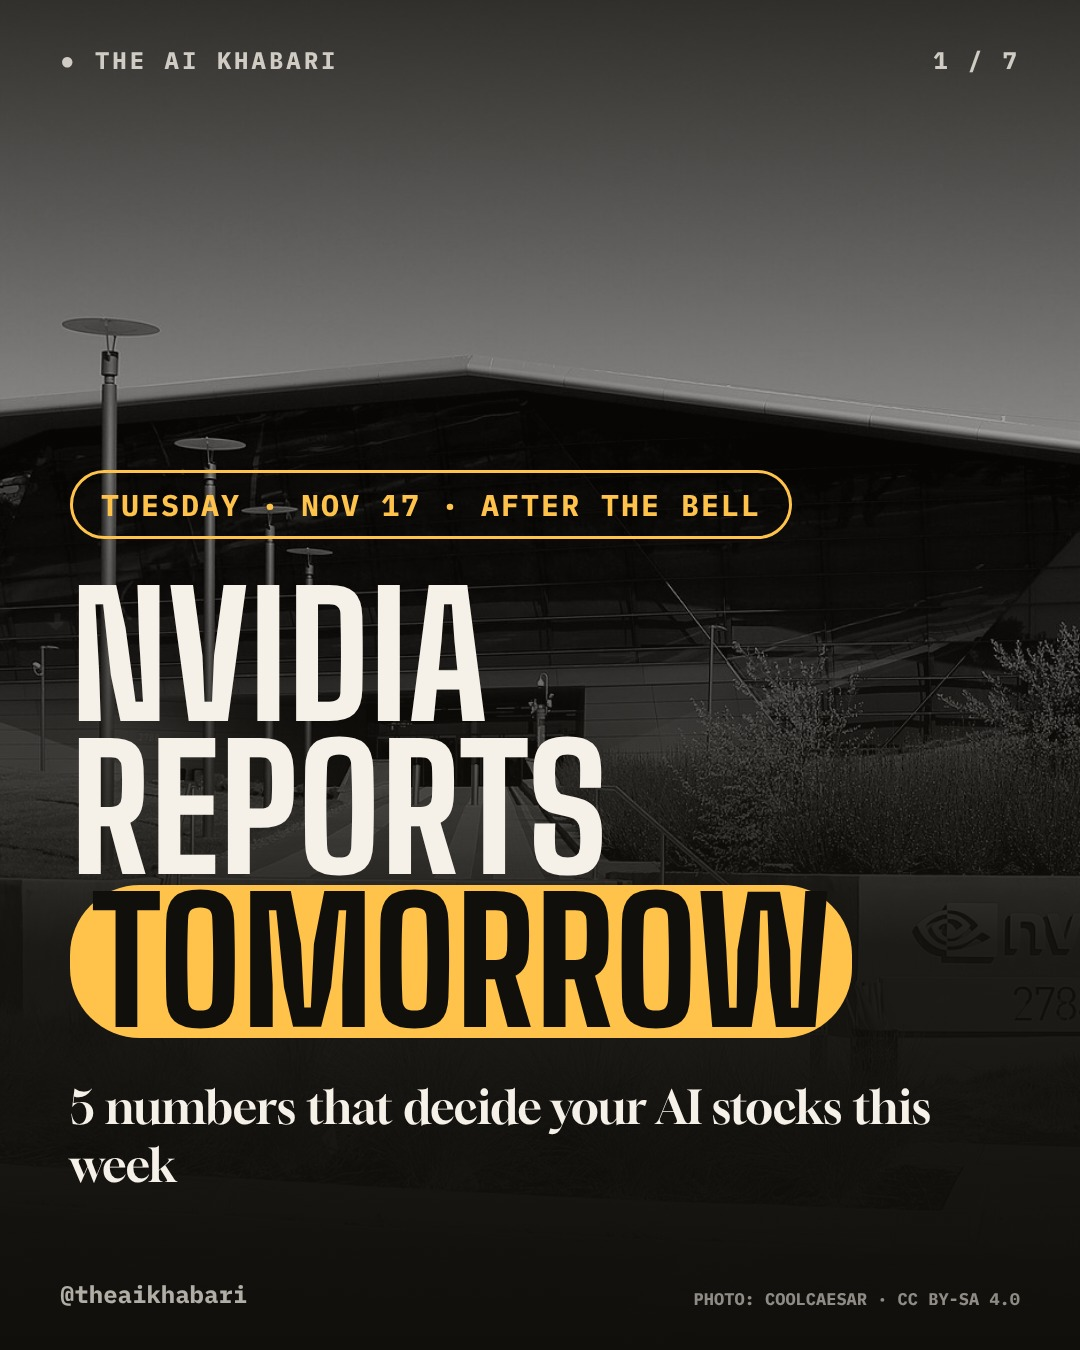
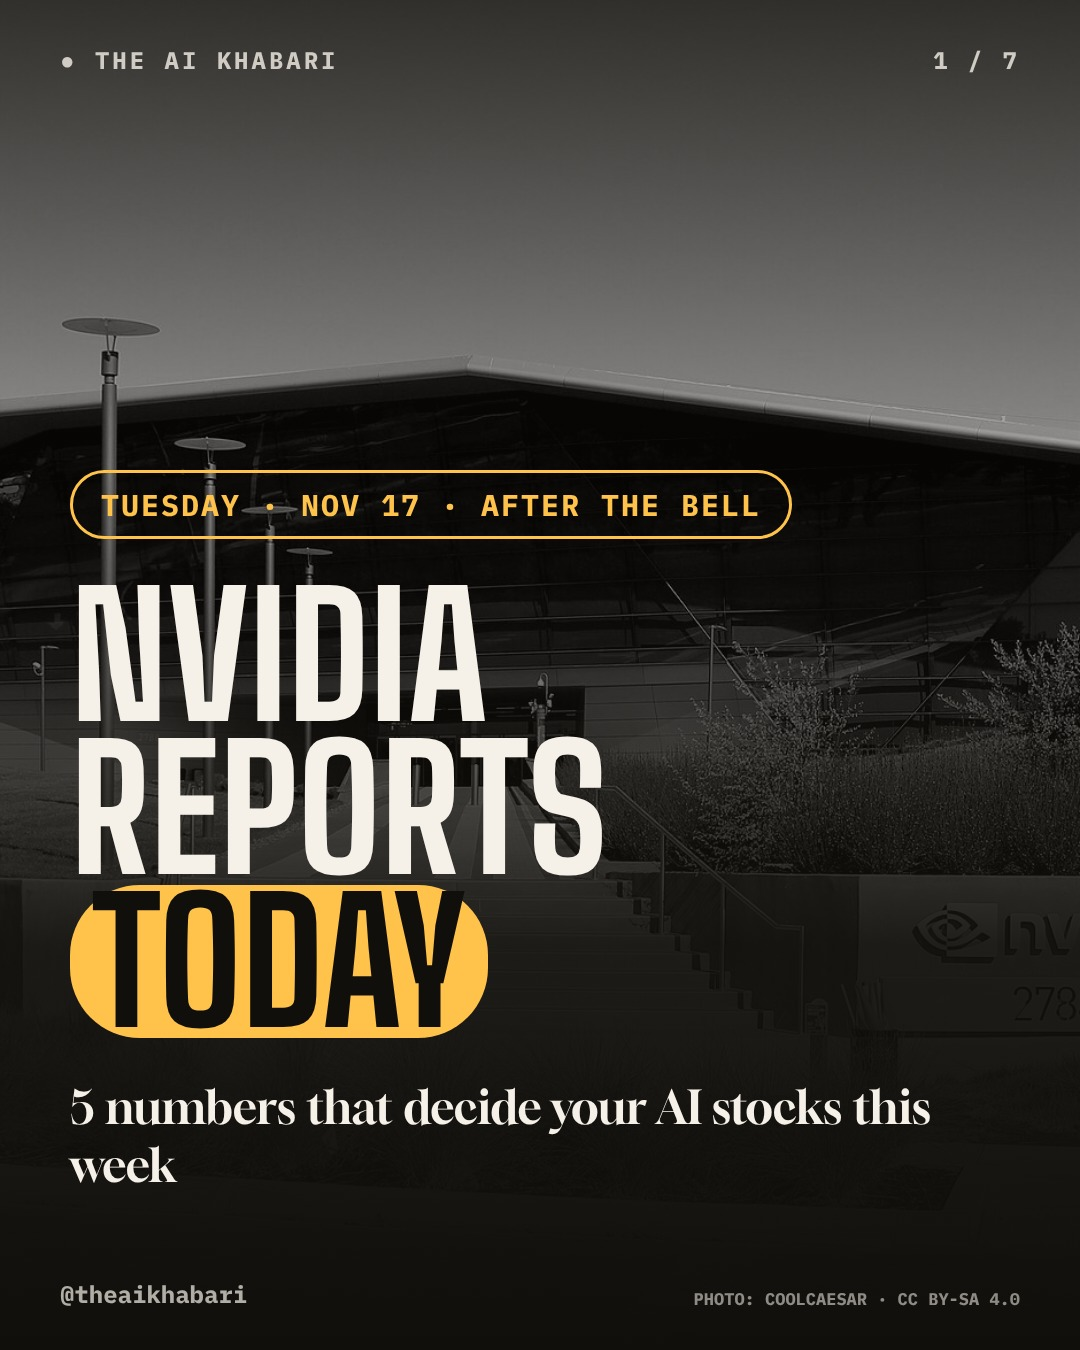
Nvidia carousel: today wording
Claude-Session: https://claude.ai/code/session_01LQ7Myr8fmpLaNjf994KEDc

Changed region(s): [[0.2444, 0.6533, 0.7944, 0.7778]]

diff --git a/media/2026-11-16/nvcar/build.py b/media/2026-11-16/nvcar/build.py
@@ -29,7 +29,7 @@ def numslide(n,k,title,big,sub,note):
 S=[]
 S.append(page(1,f"""<div style="position:absolute;left:70px;right:70px;top:470px">
 <div class=pill>TUESDAY · NOV 17 · AFTER THE BELL</div>
-<div class=H style="font-size:170px;margin-top:40px">NVIDIA<br>REPORTS<br><span class=box>TOMORROW</span></div>
+<div class=H style="font-size:170px;margin-top:40px">NVIDIA<br>REPORTS<br><span class=box>TODAY</span></div>
 <div class=ser style="margin-top:40px">5 numbers that decide your AI stocks this week</div></div>""",'nvda_hq.jpg','PHOTO: COOLCAESAR · CC BY-SA 4.0'))
 S.append(page(2,f"""<div style="position:absolute;left:70px;right:70px;top:230px">
 <div class=H style="font-size:120px">FIRST REPORT<br>WITHOUT <span class=box>JENSEN</span></div>
@@ -48,7 +48,7 @@ S.append(page(6,f"""<div style="position:absolute;left:70px;right:70px;top:190px
 """ + ''.join(f"""<div style="display:flex;justify-content:space-between;align-items:center;border-radius:80px;background:#1E1A12;border:3px solid #3A3220;padding:26px 40px;margin-bottom:22px;font-family:MO;font-size:34px"><span>{a}</span><span style="color:{AC}">{b}</span></div>""" for a,b in [('Revenue','≈ $109B'),('Adj. EPS','≈ $2.47'),('Gross margin','74% ± 0.5'),('Q4 guide','growth?'),('CEO update','any name?')]) + """
 <div class=ser style="margin-top:34px;font-size:38px">If Nvidia moves, AMD, Broadcom, Micron and TSMC often move with it.</div></div>""",None))
 S.append(page(7,f"""<div style="position:absolute;left:70px;right:70px;top:300px;text-align:center">
-<div class=H style="font-size:150px"><span class=box>SAVE THIS</span><br>FOR TUESDAY</div>
+<div class=H style="font-size:150px"><span class=box>SAVE THIS</span><br>FOR TONIGHT</div>
 <div class=ser style="margin-top:60px">Send it to the friend who holds NVDA and checks the stock every hour.</div>
 <div class=H style="font-size:64px;margin-top:70px">FOLLOW @THEAIKHABARI</div>
 <div class=ser style="font-size:34px;opacity:.8;margin-top:14px">Full breakdown after the bell</div>
